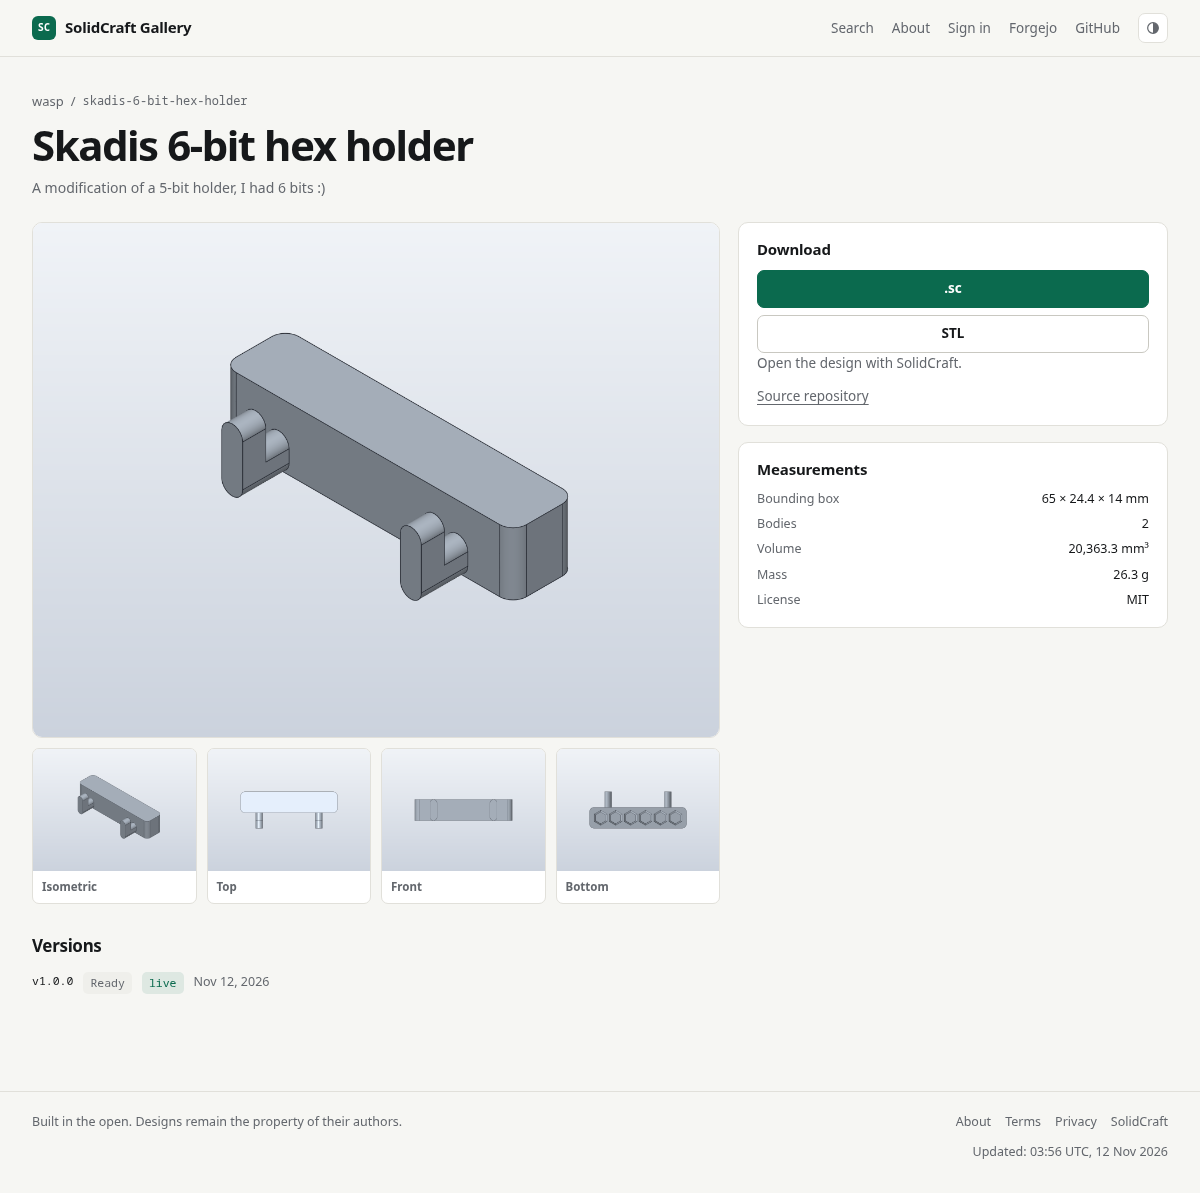
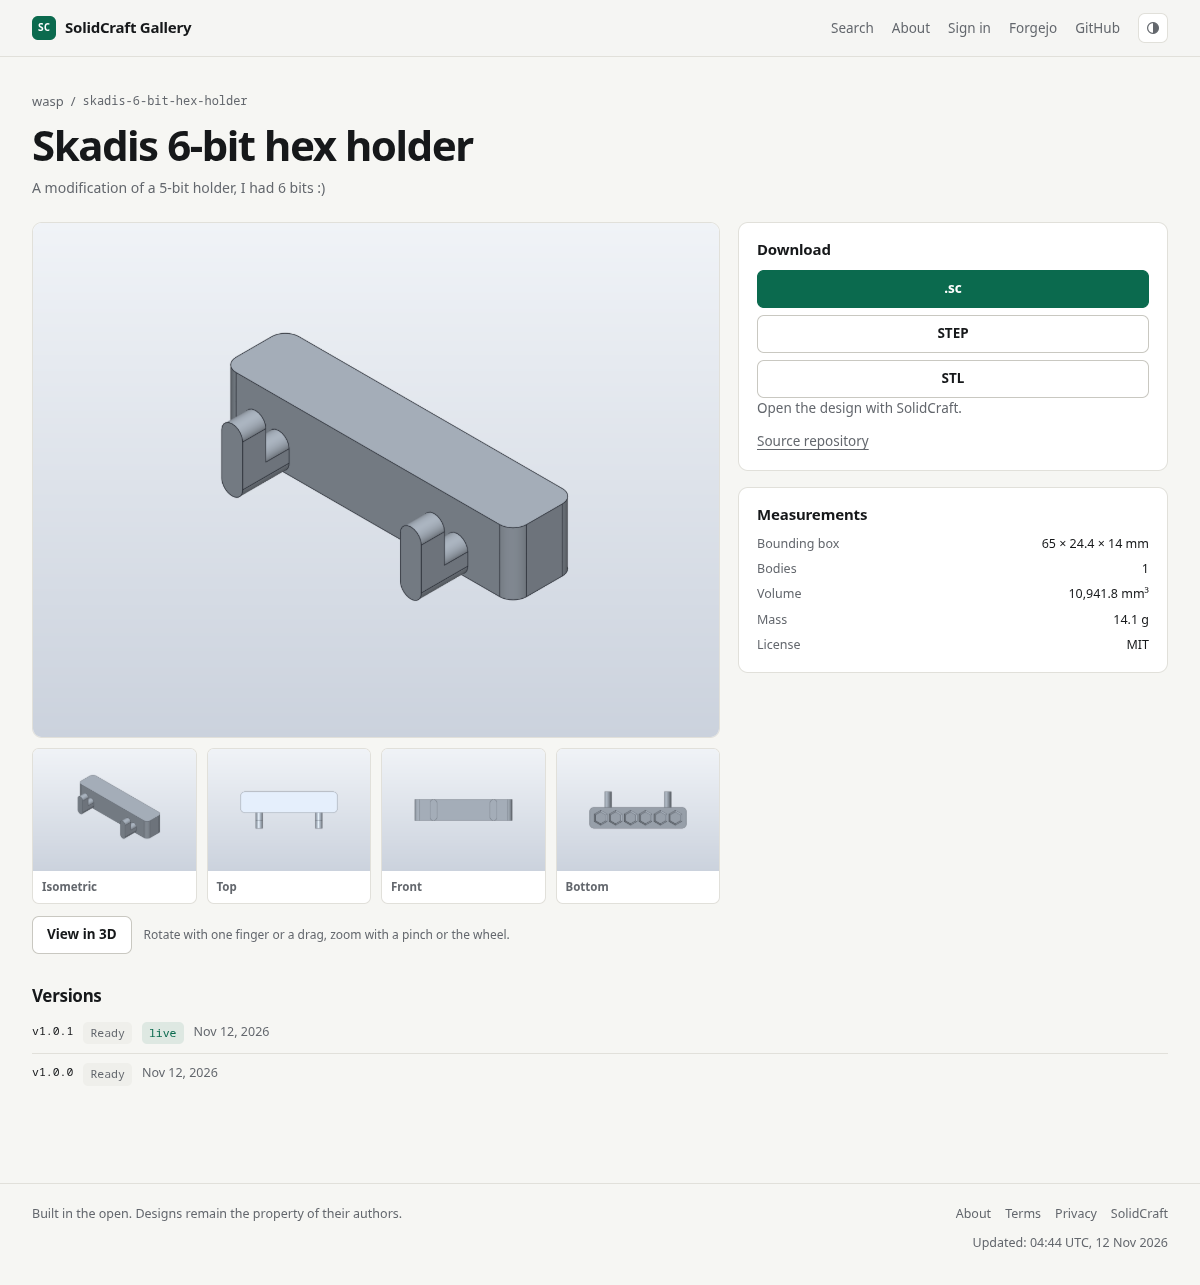
docs: capture the 3D viewer and record the decision

diff --git a/docs/00-decisions.md b/docs/00-decisions.md
@@ -397,3 +397,26 @@ migration. The manifest accepts both extensions, and external-repository discove
 **Rejected.** Rewriting historical repositories (needless churn, breaks commit history); keeping the
 old extension for new projects (diverges from SolidCraft); rejecting legacy files (breaks existing
 projects).
+
+
+---
+
+## D20 — The 3D viewer renders the published STL in the browser
+
+**Context.** Static snapshots cannot show the underside or arbitrary angles, and the renderer already
+exports an STL for every ready version.
+
+**Decision.** The project page offers a **View in 3D** dialog that loads `three.js` and the version's
+STL artifact on demand. The viewer orbits around the model's centre, fits the model's bounding box to
+the viewport, and supports orbit, zoom and pan with mouse, trackpad and touch. `three.js` is a
+dynamic import so it never reaches visitors who do not open the viewer. Models above 64 MB are not
+loaded interactively; the download remains. If WebGL fails, the dialog explains and points at the
+snapshots and the STL.
+
+**Consequences.** Any published design is explorable from every side without server rendering cost.
+The STL is mesh-only, so exact BREP geometry still lives in the `.sc` download and in SolidCraft
+itself. Large assemblies need a simplification step before they can use the viewer.
+
+**Rejected.** Server-side turntable videos (storage and latency, no interaction); a WebGL viewer
+bundled into the main page (three.js is ~190 KB gzipped and most visitors never open it); STEP
+parsing in the browser (heavy, and STEP is often unavailable for mesh-only designs).

diff --git a/README.md b/README.md
@@ -26,8 +26,10 @@ Taken from a running stack: real Forgejo, real `solidcraft-cli`, nsjail worker.
 | ![Search results](docs/screenshots/search.png) | ![Forgejo repository](docs/screenshots/forgejo.png) |
 | **Gallery in dark mode** | **Project page in dark mode** |
 | ![Gallery home in dark mode](docs/screenshots/home-dark.png) | ![Project page in dark mode](docs/screenshots/project-dark.png) |
-| **Administration — users** | **Administration — invite codes & delete confirmation** |
-| ![Admin users](docs/screenshots/admin-users.png) | ![Admin invite codes and delete confirmation](docs/screenshots/admin-invites.png) |
+| **Interactive 3D viewer** | **Administration — users** |
+| ![3D viewer](docs/screenshots/project-3d.png) | ![Admin users](docs/screenshots/admin-users.png) |
+| **Administration — invite codes** | |
+| ![Admin invite codes and delete confirmation](docs/screenshots/admin-invites.png) | |
 
 Despite the folder name, this is **not a SolidCraft plugin**. SolidCraft's plugin boundary is an
 in-document command executor with no storage, accounts, background sync or UI; a gallery needs all

diff --git a/STATUS.md b/STATUS.md
@@ -136,6 +136,9 @@ The single-host stack is deployed with Ansible to `root@192.168.88.222` (see
   hosted projects now provision real Forgejo repositories instead of local git.
 - The project page shows four shots (isometric, top, front, bottom) in a clickable strip with a
   lightbox, and downloads name the design `.sc`.
+- **Interactive 3D viewer:** the project page loads the published STL into three.js on demand
+  (orbit, zoom, pan with mouse, trackpad and touch; reset and close). three.js is a lazy chunk, so
+  the initial page stays small.
 - The gallery is on a **closed beta**: `INVITE_REQUIRED=1`, so a new provider identity needs a
   valid invite unless it matches `ADMIN_USERNAMES`. New people register at
   `/auth/register?invite=<code>`, linked from the sign-in page (which has no invite input). An invite

diff --git a/docs/10-frontend.md b/docs/10-frontend.md
@@ -84,7 +84,7 @@ Desktop two-column, mobile stacked:
 breadcrumb
 title · author · visibility badge · license badge
 ┌───────────────────────────────┬──────────────────────┐
-│  shots (iso/top/front/bottom)│  Download .sc│
+│  shots + 3D viewer          │  Download .sc│
 │  thumbnails / arrows          │  STEP · STL          │
 │                               │  dimensions, volume  │
 │                               │  bodies, mass        │
